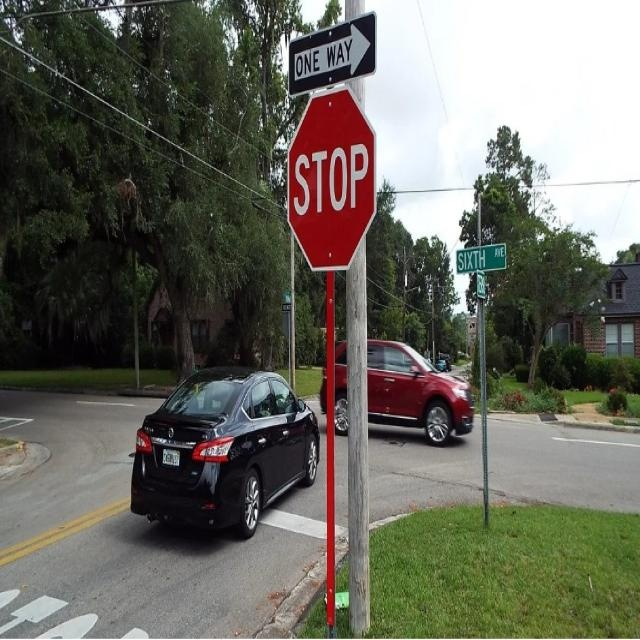
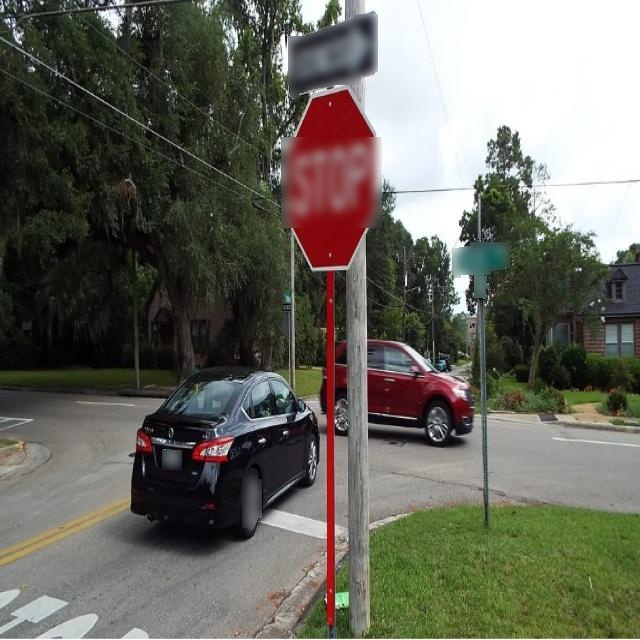
Added inpainting threshold

diff --git a/pipeline.py b/pipeline.py
@@ -15,6 +15,7 @@ DEST_DIR = Path("./pipeline_out")
 ## ALLOW USERS TO SET THESE
 MERGE_IOU_THRESHOLD = 0.3
 PRIVACY_SCORE_THRESHOLD = 0.5
+INPAINT_THRESHOLD = None
 GAUSSIAN_BLUR = True
 
 # model = YOLO("runs/yolo11s/weights/best.pt")
@@ -248,15 +249,26 @@ def blur_regions(image, region_tuples):
         if privacy_score > PRIVACY_SCORE_THRESHOLD:
             # select Gaussian blurring or inpainting
             # always uses blurring for faces
-            if GAUSSIAN_BLUR or YOLO_CLASSES[int(class_id)] == "face":
-                mask = np.zeros(image.shape[:2], dtype=np.uint8)
-                int_coords = np.array(poly.exterior.coords, dtype=np.int32)
-                cv2.fillPoly(mask, [int_coords], 255)
-                obfuscated = cv2.GaussianBlur(output, (31, 31), 0)
-                output[mask == 255] = obfuscated[mask == 255]
-            else:
+            # case where inpainting threshold is provided:
+            if (
+                INPAINT_THRESHOLD
+                and privacy_score > INPAINT_THRESHOLD
+                and YOLO_CLASSES[int(class_id)] == "face"
+            ):
                 int_coords = np.array(poly.exterior.coords, dtype=np.int32)
                 obfuscated = inpaint(output, [int_coords])
+                continue
+            # case where inpainting generally preferred over blurring
+            elif GAUSSIAN_BLUR is False and YOLO_CLASSES[int(class_id)] != "face":
+                int_coords = np.array(poly.exterior.coords, dtype=np.int32)
+                obfuscated = inpaint(output, [int_coords])
+                continue
+            # case where blurring is used
+            mask = np.zeros(image.shape[:2], dtype=np.uint8)
+            int_coords = np.array(poly.exterior.coords, dtype=np.int32)
+            cv2.fillPoly(mask, [int_coords], 255)
+            obfuscated = cv2.GaussianBlur(output, (31, 31), 0)
+            output[mask == 255] = obfuscated[mask == 255]
 
     return output
 
@@ -301,6 +313,8 @@ if __name__ == "__main__":
     Path for images to process can be a directory.
     Option -t <path> to specify save directory, defaults to {DEST_DIR}.
     Option -i to use inpainting instead of Gaussian blurring.
+    Option -p followed by one or two arguments: first argument is privacy score threshold,
+    second argument (if given) is privacy score threshold for inpainting.
     """
     parser = argparse.ArgumentParser(description=msg)
     parser.add_argument(
@@ -315,7 +329,25 @@ if __name__ == "__main__":
         "-i", "--inpaint", action="store_true", help="Inpaint instead of blur"
     )
 
+    parser.add_argument(
+        "-p",
+        "--pscore",
+        nargs="*",
+        help="Privacy score threshold, second arg if given is inpainting threshold",
+    )
+
     args = parser.parse_args()
+
+    if args.pscore and len(args.pscore) > 0:
+        PRIVACY_SCORE_THRESHOLD = float(args.pscore[0])
+        assert PRIVACY_SCORE_THRESHOLD >= 0 and PRIVACY_SCORE_THRESHOLD < 1, (
+            f"Invalid privacy score threshold: {PRIVACY_SCORE_THRESHOLD}"
+        )
+        if len(args.pscore) > 1:
+            INPAINT_THRESHOLD = float(args.pscore[1])
+            assert PRIVACY_SCORE_THRESHOLD >= 0 and PRIVACY_SCORE_THRESHOLD < 1, (
+                f"Invalid inpainting threshold: {INPAINT_THRESHOLD}"
+            )
 
     # setting GAUSSIAN_BLUR to False makes the pipeline inpaint rather than blur
     if args.inpaint:
